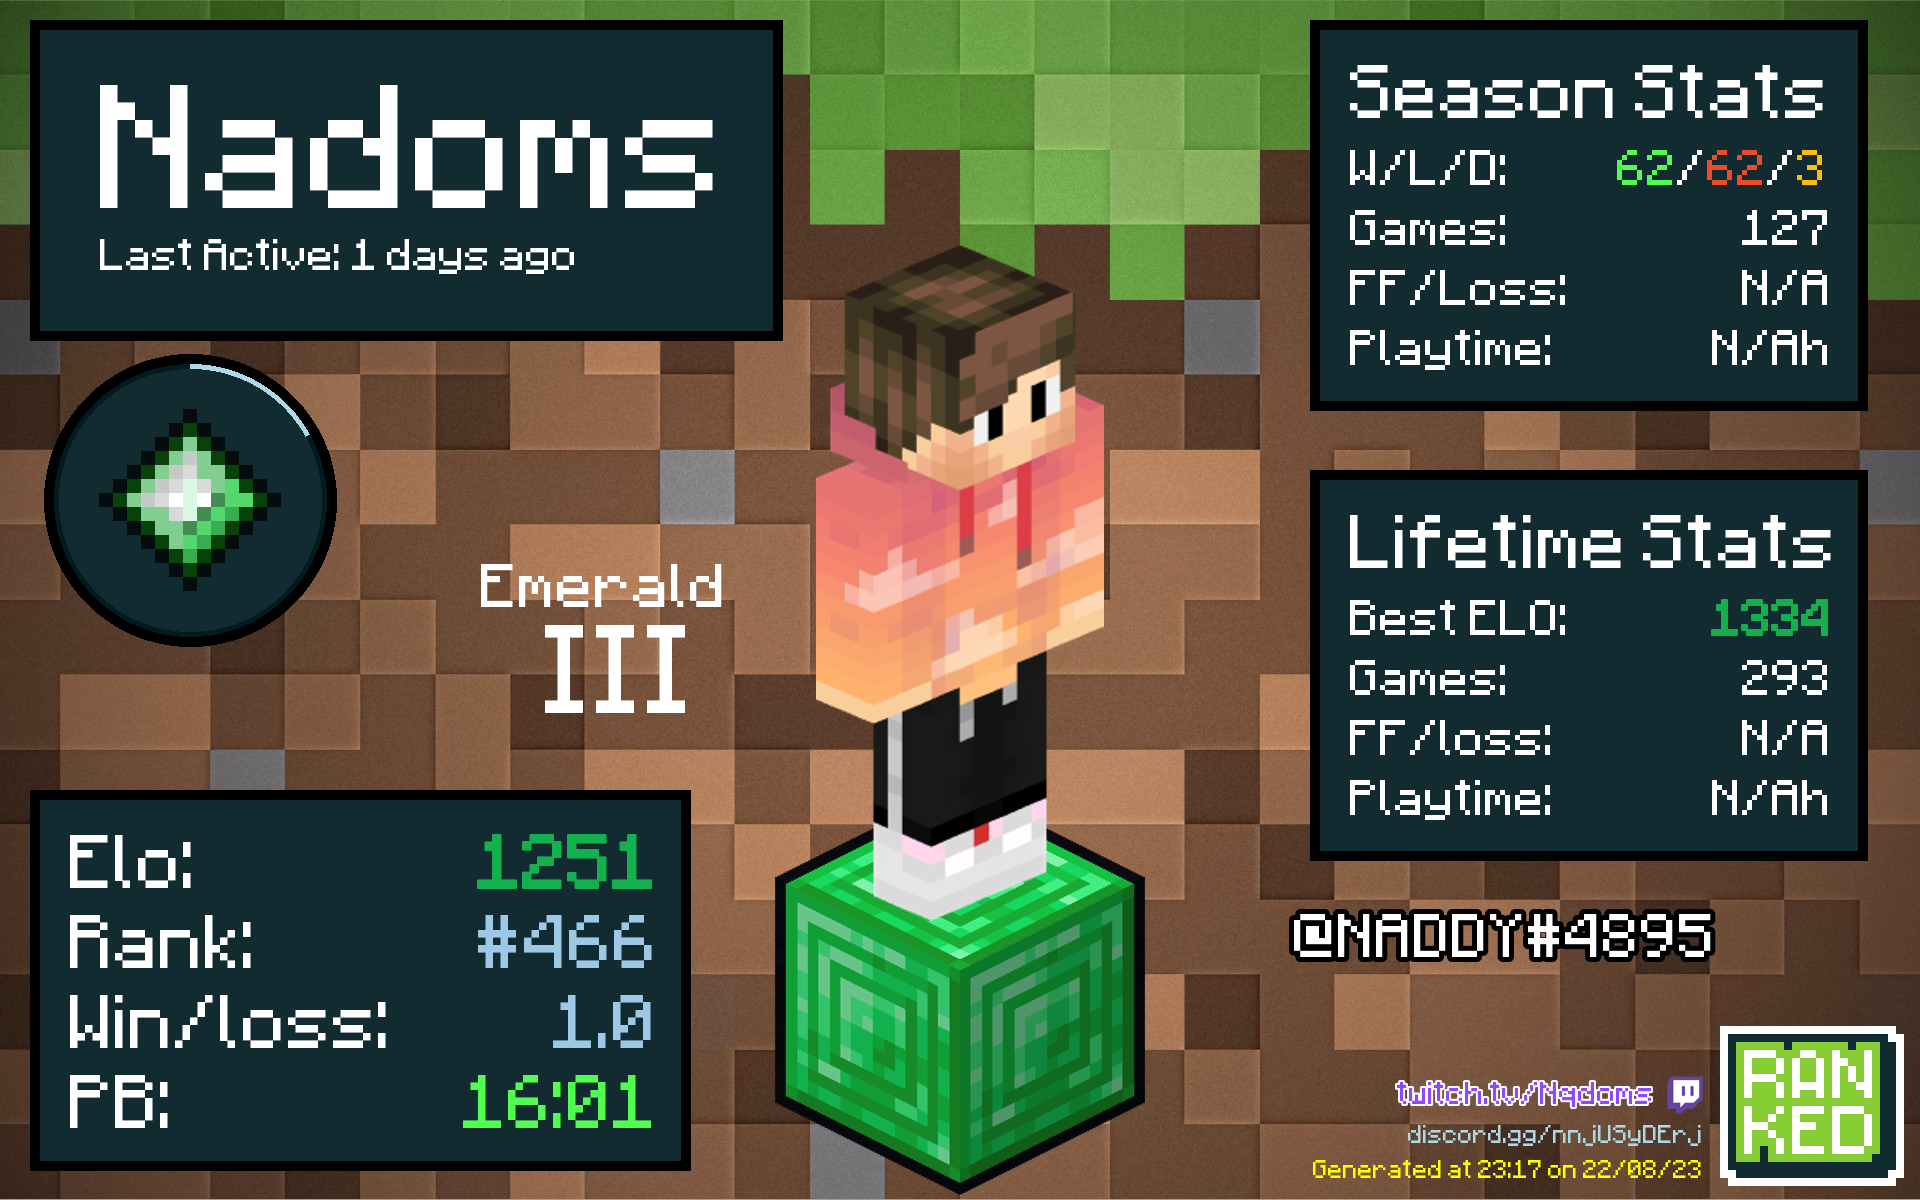
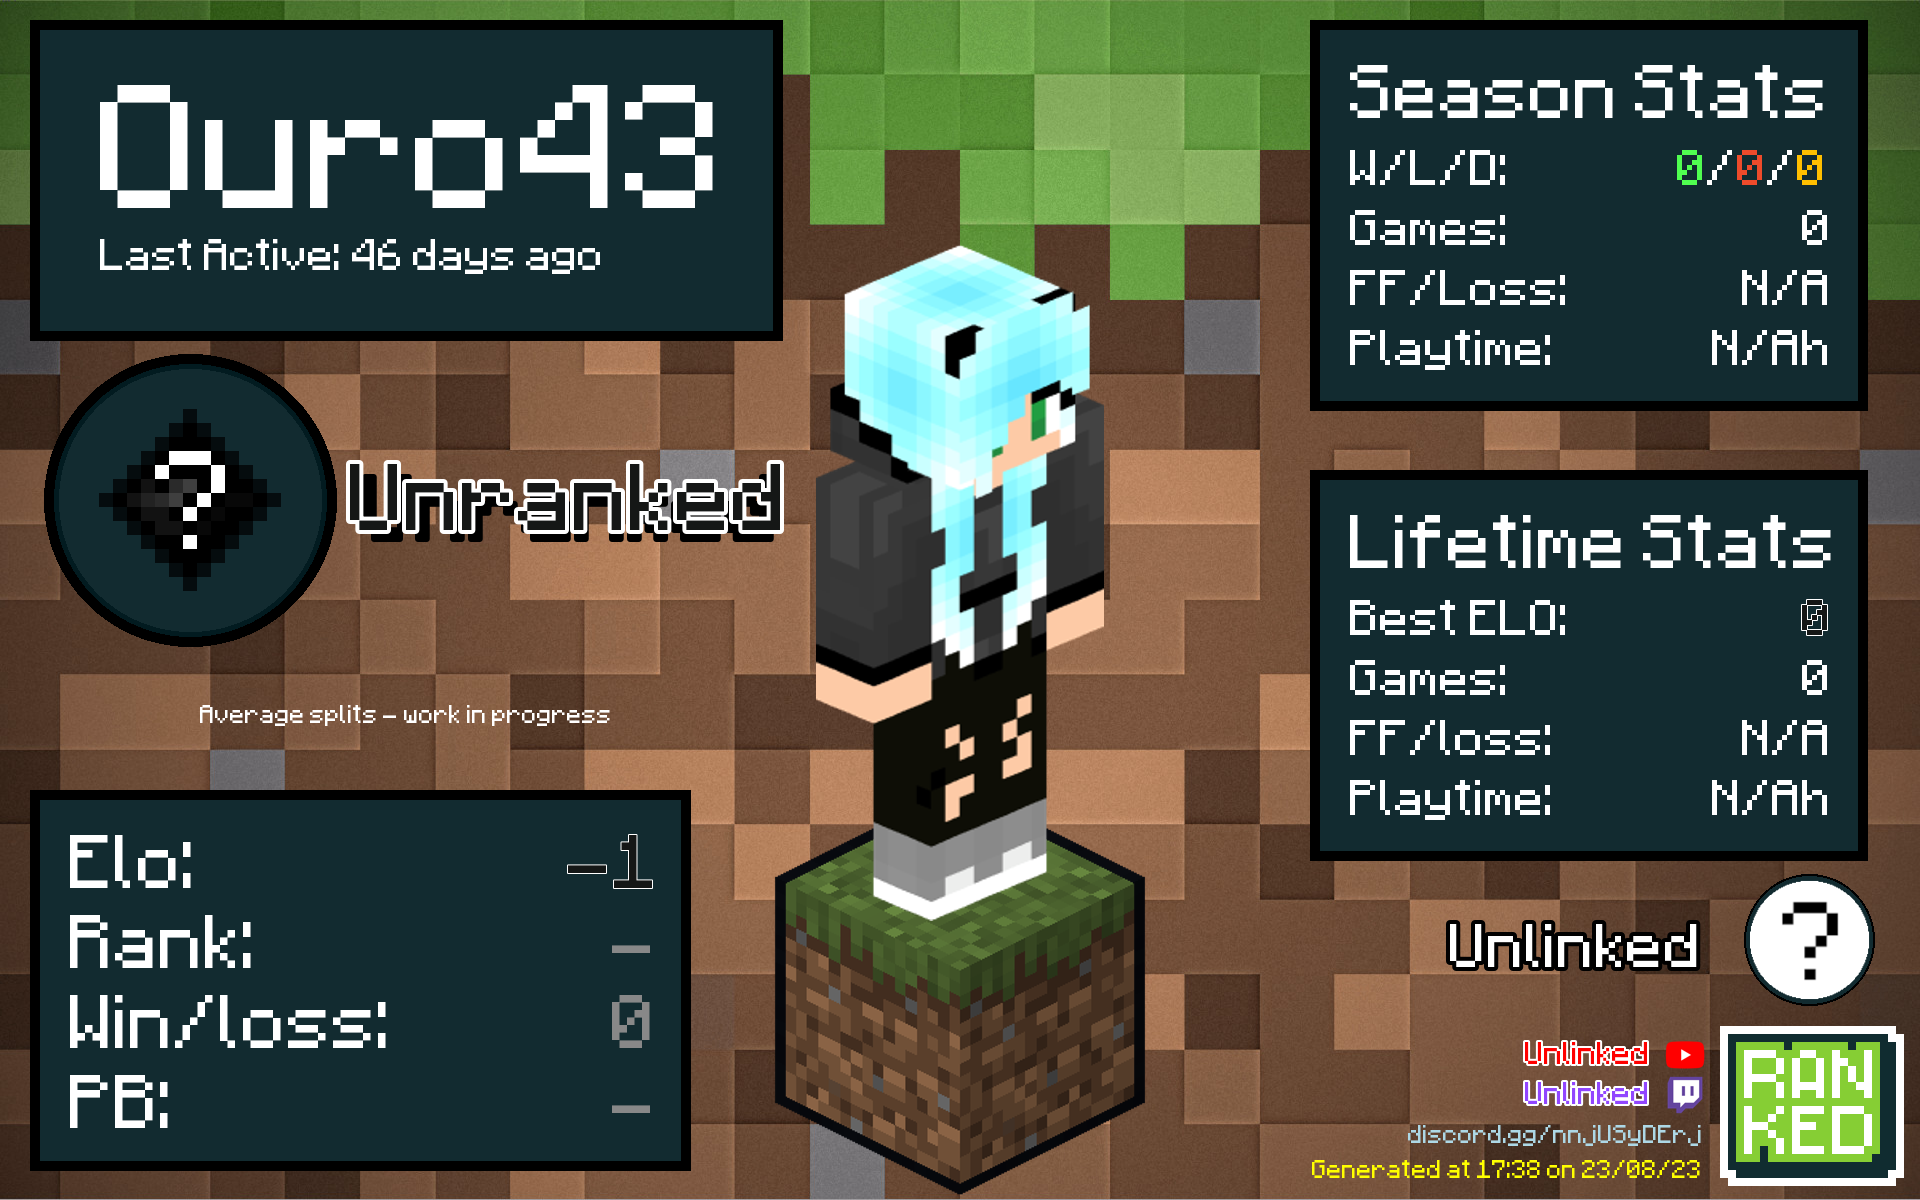
Profile pictures and register command

diff --git a/src/add_socials.py b/src/add_socials.py
@@ -1,52 +1,70 @@
+from io import BytesIO
 from PIL import Image
 from PIL import ImageDraw
 from PIL import ImageFont
+from PIL import ImageOps
 import requests
 from math import floor
 from datetime import datetime
 
 from . import word
 
-def write(card, name):
+def write(card, name, pfp):
     response = requests.get(f"https://mcsrranked.com/api/users/{name}").json()["data"]
 
     discord_font = ImageFont.truetype('minecraft_font.ttf', 50)
     twitch_yt_font = ImageFont.truetype('minecraft_font.ttf', 25)
     
     socialed_image = ImageDraw.Draw(card)
-    socialed_image.text((1700-word.calc_length(get_discord(response, card), 50), 900), get_discord(response, card), font=discord_font, fill="#ffffff", stroke_width=5, stroke_fill="#000000")
-    socialed_image.text((1650-word.calc_length(get_yt(response, card), 25), 1035), get_yt(response, card), font=twitch_yt_font, fill="#ff0000", stroke_width=2, stroke_fill="#ffffff")
-    socialed_image.text((1650-word.calc_length(get_twitch(response, card), 25), 1075), get_twitch(response, card), font=twitch_yt_font, fill="#9146ff", stroke_width=2, stroke_fill="#ffffff")
+    socialed_image.text((1700-word.calc_length(get_discord(response, name), 50), 910), get_discord(response, name), font=discord_font, fill="#ffffff", stroke_width=4, stroke_fill="#000000")
+    socialed_image.text((1650-word.calc_length(get_yt(response), 25), 1035), get_yt(response), font=twitch_yt_font, fill="#ff0000", stroke_width=2, stroke_fill="#ffffff")
+    socialed_image.text((1650-word.calc_length(get_twitch(response), 25), 1075), get_twitch(response), font=twitch_yt_font, fill="#9146ff", stroke_width=2, stroke_fill="#ffffff")
+    write_pfp(card, 1750, pfp)
+    write_yt(card)
+    write_twitch(card)
 
     return card
 
-def get_discord(response, card):
-    # Check if user is linked
-    if response["connections"]["discord"]:
-        discord = response["connections"]["discord"]["name"]
-        write_pfp(card)
-        return "@" + discord
-    else:
-        return "Discord not linked"
+def get_discord(response, name):
+    discord = "Unlinked"
+    with open (r"src\link.txt", "r") as f:
+        for line in f:
+            if name in line:
+                discord = "@" + line.split(":")[1]
+                break
+    return discord
 
-def get_yt(response, card):
+def get_yt(response):
     if response["connections"]["youtube"]:
         youtube = response["connections"]["youtube"]["name"]
-        write_yt(card)
         return youtube
     else:
-        return ""
+        return "Unlinked"
 
-def get_twitch(response, card):
+def get_twitch(response):
     if response["connections"]["twitch"]:
         twitch = response["connections"]["twitch"]["name"]
-        write_twitch(card)
         return "twitch.tv/" + twitch
     else:
-        return ""
+        return "Unlinked"
     
-def write_pfp(card):
-    pass
+def write_pfp(card, x, pfp):
+    response = requests.get(pfp)
+    y = 880
+
+    pfped_image = ImageDraw.Draw(card)
+    pfped_image.ellipse([x-6, y-6, x+124, y+125], fill="#122b30", outline="#000000", width=2)
+
+    circle = Image.open(r"src\pics\other\circle.png").convert("L")
+
+    pic = Image.open(BytesIO(response.content))
+
+    circled_pic = ImageOps.fit(pic, circle.size, centering=(0.5, 0.5))
+    circled_pic.putalpha(circle)
+    circled_pic = circled_pic.resize((120, 120))
+
+    card.paste(circled_pic, (x, y), circled_pic)
+    return card
 
 def write_discord(card):
     pass

diff --git a/bot.py b/bot.py
@@ -21,7 +21,9 @@ async def ping(ctx):
 
 @bot.command()
 async def card(ctx, input_name):
-    img = carding.__main__(input_name)
+    user = await bot.fetch_user(get_id(input_name))
+    pfp = user.avatar
+    img = carding.__main__(input_name, pfp)
     if img:
         img.save("card.png")
         with open("card.png", "rb") as f:
@@ -30,10 +32,25 @@ async def card(ctx, input_name):
     else:
         await ctx.send("Player not found.")
 
+def get_id(input_name):
+    with open (r"src\link.txt", "r") as f:
+        for line in f:
+            if input_name.lower() in line.lower():
+                discord = line.split(":")[1]
+                id = nextcord.utils.get(bot.get_all_members(), name=discord).id
+                break
+        else:
+            id = "343108228890099713"
+    return id
+
 @bot.command()
 async def register(ctx, input_name):
-    print("hello")
-    await ctx.send("hi there")
+    with open (r"src\link.txt", "a") as f:
+        user = str(ctx.message.author)
+        if user[-2:] == "#0":
+            user = user[:-2]
+        f.write("\n" + input_name + ":" + user)
+    await ctx.send(input_name + "has been linked to your discord!")
 
 @bot.command()
 async def unregister(ctx, input_name):

diff --git a/card.py b/card.py
@@ -12,7 +12,7 @@ import requests
 from PIL import Image
 from pathlib import Path
 
-def __main__(input_name):
+def __main__(input_name, pfp):
     folder = Path(r"C:\Users\Ntakr\VSCode\Ranked-Cards\src\pics\bgs")
     bg = "grass.jpg"
 
@@ -27,10 +27,10 @@ def __main__(input_name):
         src.add_skin.write(card, name)
         src.add_badge.write(card, name)
         src.add_splits.write(card, name)
-        src.add_socials.write(card, name)
+        src.add_socials.write(card, name, pfp)
         src.add_other.write(card, name)
         return card
     else:
         print("Player not found.")
 
-__main__("nadoms").show()
+# __main__("nadoms", "https://cdn.discordapp.com/avatars/343108228890099713/25add9f8ccc5c06fae4e36c042aeaf10?size=1024").show()

diff --git a/src/add_badge.py b/src/add_badge.py
@@ -45,7 +45,7 @@ def write(card, name):
     y = 475
     rank_size = 80
     division_size = 140
-    if tier[0] == "Netherite":
+    if tier[0] == "Netherite" or tier[0] == "Unranked":
         y += 65
         rank_size -=5
 
@@ -73,7 +73,7 @@ def get_badge(response):
 
 def get_tier(response):
     elo = response["elo_rate"]
-    ranks = ["Coal", "Iron", "Gold", "Emerald", "Diamond", "Netherite"]
+    ranks = ["Coal", "Iron", "Gold", "Emerald", "Diamond", "Netherite", "Unranked"]
 
     tier = [ranks[rank.get_rank(elo)], rank.get_division(elo)]
 

diff --git a/src/add_podium.py b/src/add_podium.py
@@ -24,7 +24,6 @@ def get_podium(response):
     return podium
 
 def get_border():
-    
     border = Image.open(r"C:\Users\Ntakr\VSCode\Ranked-Cards\src\pics\podiums\podium_bg.webp")
     border = border.resize((round(border.size[0]*1.38), round(border.size[1]*1.38)))
     return border

diff --git a/src/rank.py b/src/rank.py
@@ -48,7 +48,9 @@ def get_degree(elo):
     return degree
 
 def get_division(elo):
-    if elo < 600:
+    if elo < 0:
+        return ""
+    elif elo < 600:
         if elo < 200:
             return "I"
         elif elo < 400:

diff --git a/src/word.py b/src/word.py
@@ -8,4 +8,4 @@ def calc_length(word, size):
         elif letter in "It":
             length -= 2
     length *= size / 8
-    return length
+    return round(length)
